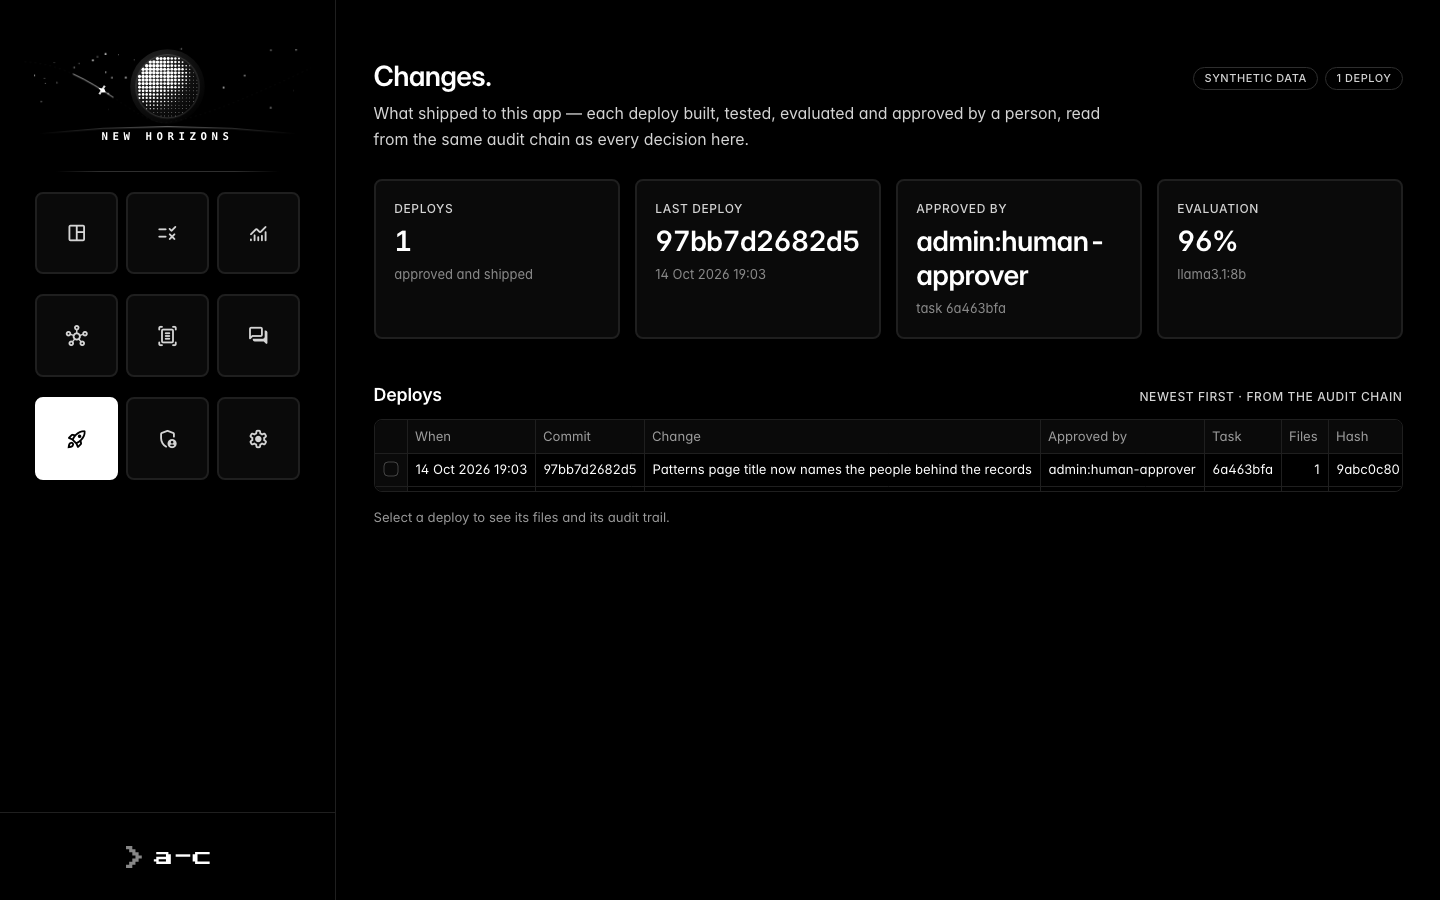
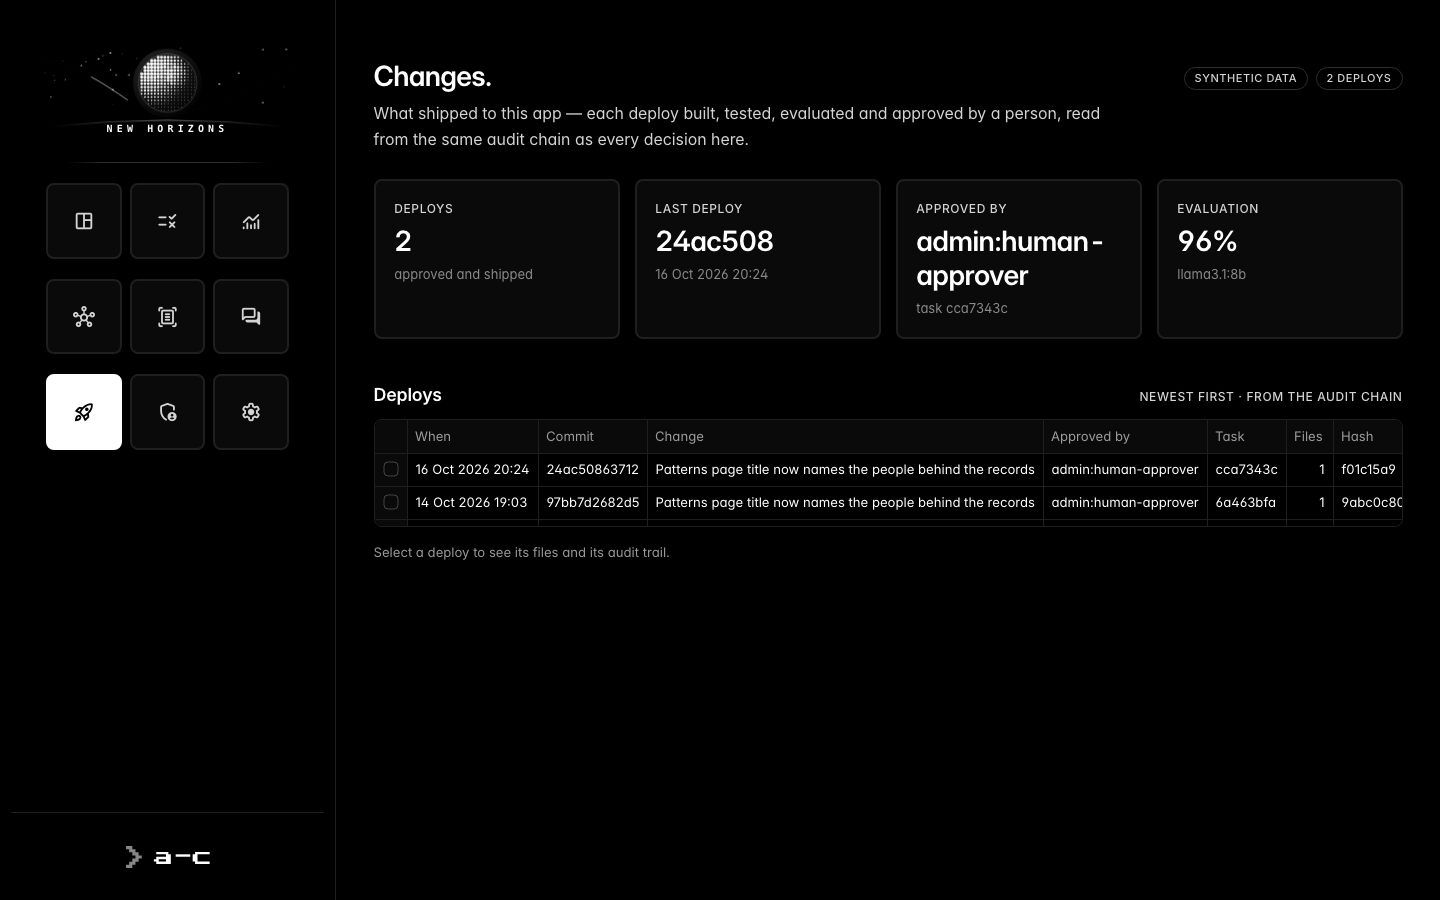
docs: readme images, models, data, author

diff --git a/README.md b/README.md
@@ -1,63 +1,65 @@
 # new-horizons
 
-<p align="center"><img src="assets/brand/newhorizons-flyby-static.svg" width="400" alt="New Horizons"></p>
-
-**New Horizons** — an offline analytics and reconciliation agent for one aquaponics farm:
+**New Horizons** is an offline analytics and reconciliation agent for one aquaponics farm:
 Streamlit + LangGraph on local 8B models, bilingual (English / Arabic), every figure
 traceable to a query or a cited procedure. It is also the home of the shared agent harness
-that its sibling, [sojourner](https://github.com/omarsoman/sojourner), uses to
+that its sibling, [sojourner](https://github.com/Omisoman/sojourner), uses to
 develop, gate and deploy it.
 
-![The Reconcile page, then the chat answering the verification question](docs/shots/readme.gif)
+![The New Horizons farm overview: the sidebar with the flyby mark and the page grid, the reconciliation findings ranked by money at risk, and the four grow units with this period's figures.](docs/shots/overview.png)
 
 ## What it does
 
-Four grow units, five source systems — sensor telemetry, the pump/air/dosing controller,
-maintenance, harvest and shipping, supplies — 90 days of synthetic, seeded data with six
+Four grow units, five source systems (sensor telemetry, the pump, air and dosing controller,
+maintenance, harvest and shipping, supplies), 90 days of synthetic, seeded data with six
 incidents planted in it. The agent's job is the one an operations analyst does by hand:
 find where the systems stop agreeing, put a number on it, and say which procedure governs it.
 
 | Page | What it shows |
 |---|---|
 | **Overview** | the period's findings ranked by money at risk, units, KPIs, trends |
-| **Reconcile** | three matches — pump commanded vs water level, harvested vs shipped, consumed vs purchased — exceptions ranked by EUR, the governing rule, an approval bar (Farm Manager → approve / escalate / reject) |
+| **Reconcile** | three matches (pump commanded vs water level, harvested vs shipped, consumed vs purchased), exceptions ranked by EUR, the governing rule, an approval bar (Farm Manager: approve, escalate or reject) |
 | **Drift** | month × unit against the SOP bands; a probe that drifted vs chemistry that moved, with the calibration that proves it; sensor gaps never read as drift |
-| **Patterns** | who touches which unit — a technician whose harvests never ship |
+| **Patterns** | who touches which unit: a technician whose harvests never ship |
 | **Documents** | a scanned invoice or water-lab report → OCR → fields verified against the text → reconciled → a held or payable alert citing the rule |
 | **Chat** | known questions resolved in code, everything else by the agent, with its tool trace |
 | **Changes** | what sojourner shipped to this app: each deploy, its approver and evaluation, from the same audit chain |
 
+![The Reconcile page: the three nightly matches with their rates, the exceptions ranked by money at risk, and the governing rule for harvests that were never shipped, quoted from the harvest and shipping procedure.](docs/shots/reconcile.png)
+
 Ask *"How many kilograms did AQ-03 lose in the week after the pump failure, and what does
-the maintenance SOP say the response time should have been?"* — the answer is **9.80 kg**
+the maintenance SOP say the response time should have been?"* The answer is **9.80 kg**
 (6.31 kg harvested against 16.11 kg usual, 35.28 EUR), citing `pump-maintenance-sop.md §3`:
 on site within 2 hours, while alert AL-2026-0001 waited **113.2 hours**. Same trace on
 qwen3:8b, llama3.1:8b and deepseek-r1:8b.
+
+![The chat page answering that question: 9.80 kg lost and 35.28 EUR, the SOP's two-hour response time against the 113.2 hours the alert waited, with the two procedure citations and the tool trace under the answer.](docs/shots/chat.png)
 
 ## Architecture
 
 ```mermaid
 flowchart LR
-  subgraph data["Postgres — five schemas (synthetic, seed 2019)"]
+  subgraph data["Postgres: five schemas (synthetic, seed 2019)"]
     T[telemetry]
     C[controller]
     M[maintenance]
     H[harvest]
     S[supplies]
   end
-  subgraph analytics["analytics/ — deterministic code"]
+  subgraph analytics["analytics/: deterministic code"]
     R[recon.py]
     D[drift.py]
     P[patterns.py]
-    MET["metrics.py — known questions"]
+    MET["metrics.py: known questions"]
   end
-  subgraph harness["shared/ — the harness"]
-    G["LangGraph graph — JSON tool protocol"]
+  subgraph harness["shared/: the harness"]
+    G["LangGraph graph: JSON tool protocol"]
     A[("hash-chained audit log")]
   end
-  KB[("KB — 10 docs EN+AR, bge-m3 → Chroma")]
-  UI["Streamlit app — 9 views, EN/AR"]
-  LLM["Ollama 8B — OpenAI-compatible"]
-  SOJ["sojourner — approved deploys"]
+  KB[("KB: 10 docs EN+AR, bge-m3 → Chroma")]
+  UI["Streamlit app: 9 views, EN/AR"]
+  LLM["Ollama 8B: OpenAI-compatible"]
+  SOJ["sojourner: approved deploys"]
   data --> analytics
   analytics --> UI
   UI -- chat --> G
@@ -72,9 +74,10 @@ flowchart LR
 Correctness lives in code, not the prompt: known questions resolve through
 `intents.yaml` → `metrics.py`; free answers pass a figure gate (every number must come from a
 tool result or retrieved text) and a language check; discrepancies are found by
-`recon.py`, never by the model; governance — approvals, the agent's pause switch, deploys —
+`recon.py`, never by the model; governance (approvals, the agent's pause switch, deploys)
 is an event in a hash-chained log, never UI state. `shared/` never imports the app, and
-views never import each other (import-linter enforces both).
+views never import each other (import-linter enforces both). The security model is in
+[SECURITY.md](SECURITY.md).
 
 ## Run
 
@@ -94,16 +97,46 @@ make demo1                                       # http://localhost:8501
 `uv run python scripts/question-bank.py --set docs/question-set.yaml [--model llama3.1:8b]`.
 A walkthrough is in [docs/DEMO.md](docs/DEMO.md).
 
+## Models (not in this repo)
+
+No model weights are in this repository. `make models` pulls these from Ollama; the first run needs roughly 20 GB of disk and a machine with 16 GB RAM (24 GB for all five at once).
+
+| Model | Role | Download | Ollama |
+|---|---|---|---|
+| `qwen3:8b` | the analytics agent (default chat model) | 5.2 GB | [ollama.com/library/qwen3:8b](https://ollama.com/library/qwen3:8b) |
+| `llama3.1:8b` | second opinion in the question bank | 4.9 GB | [ollama.com/library/llama3.1:8b](https://ollama.com/library/llama3.1:8b) |
+| `deepseek-r1:8b` | reasoning comparisons | 5.2 GB | [ollama.com/library/deepseek-r1:8b](https://ollama.com/library/deepseek-r1:8b) |
+| `qwen3-vl:4b` | document intake: structures the OCR text of a scan into fields, every value checked against the text (regex is the fallback) | 3.3 GB | [ollama.com/library/qwen3-vl:4b](https://ollama.com/library/qwen3-vl:4b) |
+| `bge-m3` | embeddings for the knowledge base and the question matcher | 1.2 GB | [ollama.com/library/bge-m3](https://ollama.com/library/bge-m3) |
+
+Sizes are what `ollama list` reports on the author's Mac. `scripts/ollama-env.sh` holds the
+serve settings: 8192-token context, q8_0 KV cache, flash attention, at most two models loaded.
+
+## Data
+
+All data is synthetic. `make mock` (`src/new_horizons/app/mock/generate.py`, on the physics of
+`data/_seed/gen_aquaponics.py`) generates 90 days of telemetry, controller, maintenance,
+harvest, shipping and supplier records for one fictional aquaponics farm (seed 2019) with
+planted incidents: a pump failure on grow unit AQ-03 from 12 to 18 July, a heatwave 26 to 30
+July, six harvests that were never shipped, a feed nobody bought, sensor dropouts and a pH
+probe drift on AQ-04. The knowledge base in `src/new_horizons/app/ingest/kb_synthetic/` is
+written for that farm. No real company, person or client appears anywhere.
+
+```sh
+make db-up mock    # generate the farm; load the five databases, the analytics and the sample scans
+make kb            # load the knowledge base into Chroma (bge-m3, ~5 s)
+```
+
 ## Example
 
 | question | answered by | result |
 |---|---|---|
-| How much money is sitting in unresolved reconciliation? | `metric:recon_exposure` | 220.89 EUR across 8 exceptions — 171.72 harvests never shipped, 35.28 pump commanded with no level rise, 13.89 feed never bought |
-| لماذا أُوقفت الفاتورة INV-2026-0418؟ | `metric:held_invoice` | 2.95 EUR/kg against 2.40 on the purchase order (+22.9 %, outside the 5 % tolerance), from SUP-007, not the ordered SUP-001 — in Arabic |
+| How much money is sitting in unresolved reconciliation? | `metric:recon_exposure` | 220.89 EUR across 8 exceptions: 171.72 harvests never shipped, 35.28 pump commanded with no level rise, 13.89 feed never bought |
+| لماذا أُوقفت الفاتورة INV-2026-0418؟ | `metric:held_invoice` | 2.95 EUR/kg against 2.40 on the purchase order (+22.9 %, outside the 5 % tolerance), from SUP-007, not the ordered SUP-001; answered in Arabic |
 | Is the pH drift on AQ-04 a sensor problem or a chemistry problem? | `metric:ph_drift_cause` | the probe: lab 6.89 vs probe 7.28, fixed by the 21 August calibration |
 
 The 26-question bilingual set (13 EN + 13 AR, follow-ups, colloquial and off-script
-questions — [docs/question-set.md](docs/question-set.md)) scores 26/26 on qwen3:8b and 25/26
+questions; [docs/question-set.md](docs/question-set.md)) scores 26/26 on qwen3:8b and 25/26
 on llama3.1:8b; Sojourner's deploy gate re-runs it on every change.
 
 ## Stack
@@ -117,6 +150,8 @@ person in it are synthetic.
 
 ## Author
 
-Omar Soman — founder of [Agentization Core](https://agentization-core.com) ·
-[LinkedIn](https://www.linkedin.com/in/omarsoman). MIT-licensed — see [LICENSE](LICENSE);
-security model in [SECURITY.md](SECURITY.md).
+Omar Soman, Software Engineer, Agentic AI Systems, author of Agentization Core. [github.com/Omisoman](https://github.com/Omisoman), [agentization-core.com](https://agentization-core.com), [linkedin.com/in/omarsoman](https://www.linkedin.com/in/omarsoman).
+
+## License
+
+MIT licensed, see [LICENSE](LICENSE).

diff --git a/docs/DEMO.md b/docs/DEMO.md
@@ -40,7 +40,7 @@ ollama ps                                            # ONLY qwen3:8b resident, V
 | 3–4 | Patterns | "TEC-06 logged six harvests — 31.52 kg — that never left the building, none countersigned. The harvest-shipping procedure requires a second signature at the cold room; that is the control that broke." |
 | 4–6 | Documents → **Invoice · held** | "A supplier invoice arrives as a scan. On-device OCR, the vision model extracts every field — and every figure is checked against the OCR text. Then the reconciliation call: INV-2026-0418 bills 2.95 EUR/kg against 2.40 on the purchase order (+22.9 %, outside the 5 % tolerance), and it comes from SUP-007, not the ordered supplier SUP-001. Payment on hold; the actions come from the supplier-invoice controls, cited." Then **Invoice · clean** (INV-2026-0397): "it reconciles — it doesn't cry wolf." Then **Lab report** (LAB-2026-0019): "recalibrate AQ-04." |
 | 6–7 | Chat | The alert is already there. Ask the verification question: **How many kilograms did AQ-03 lose in the week after the pump failure, and what does the maintenance SOP say the response time should have been?** → 9.80 kg (6.31 harvested on 20 July against 16.11 usual), the SOP says on site within 2 hours — alert AL-2026-0001 waited 113.2. Cites `pump-maintenance-sop.md §3`; open the trace: one metric call, no free-form SQL. Then the same in Arabic: **كم كيلوغراماً خسرت الوحدة AQ-03 في الأسبوع التالي لتعطل المضخة، وماذا تقول إجراءات الصيانة عن زمن الاستجابة المطلوب؟** |
-| 7–8 | Admin center + Changes | "Who escalated that, and what do I hand the auditor?" → **Audit trail** from the finding: time, actor, action, rule, outcome, hash. **Admin center** (shield icon): the **Governance** tab and the full **Audit trail**. In **Settings** press **Pause agent** once — intake and chat refuse and say who paused them — then resume; **Switch model** → Llama 3.1: "one 8B resident, same graph, same tools — in production this endpoint is your inference cluster, one URL change." Last, **Changes** (rocket): "every change to this app shipped by [sojourner](https://github.com/omarsoman/sojourner) — built, tested, evaluated and approved by a person — read from this same chain." |
+| 7–8 | Admin center + Changes | "Who escalated that, and what do I hand the auditor?" → **Audit trail** from the finding: time, actor, action, rule, outcome, hash. **Admin center** (shield icon): the **Governance** tab and the full **Audit trail**. In **Settings** press **Pause agent** once — intake and chat refuse and say who paused them — then resume; **Switch model** → Llama 3.1: "one 8B resident, same graph, same tools — in production this endpoint is your inference cluster, one URL change." Last, **Changes** (rocket): "every change to this app shipped by [sojourner](https://github.com/Omisoman/sojourner) — built, tested, evaluated and approved by a person — read from this same chain." |
 
 Every figure above is pinned by `tests/test_validation.py` against
 `src/new_horizons/app/ingest/validation/expected-results.json` (written by the
